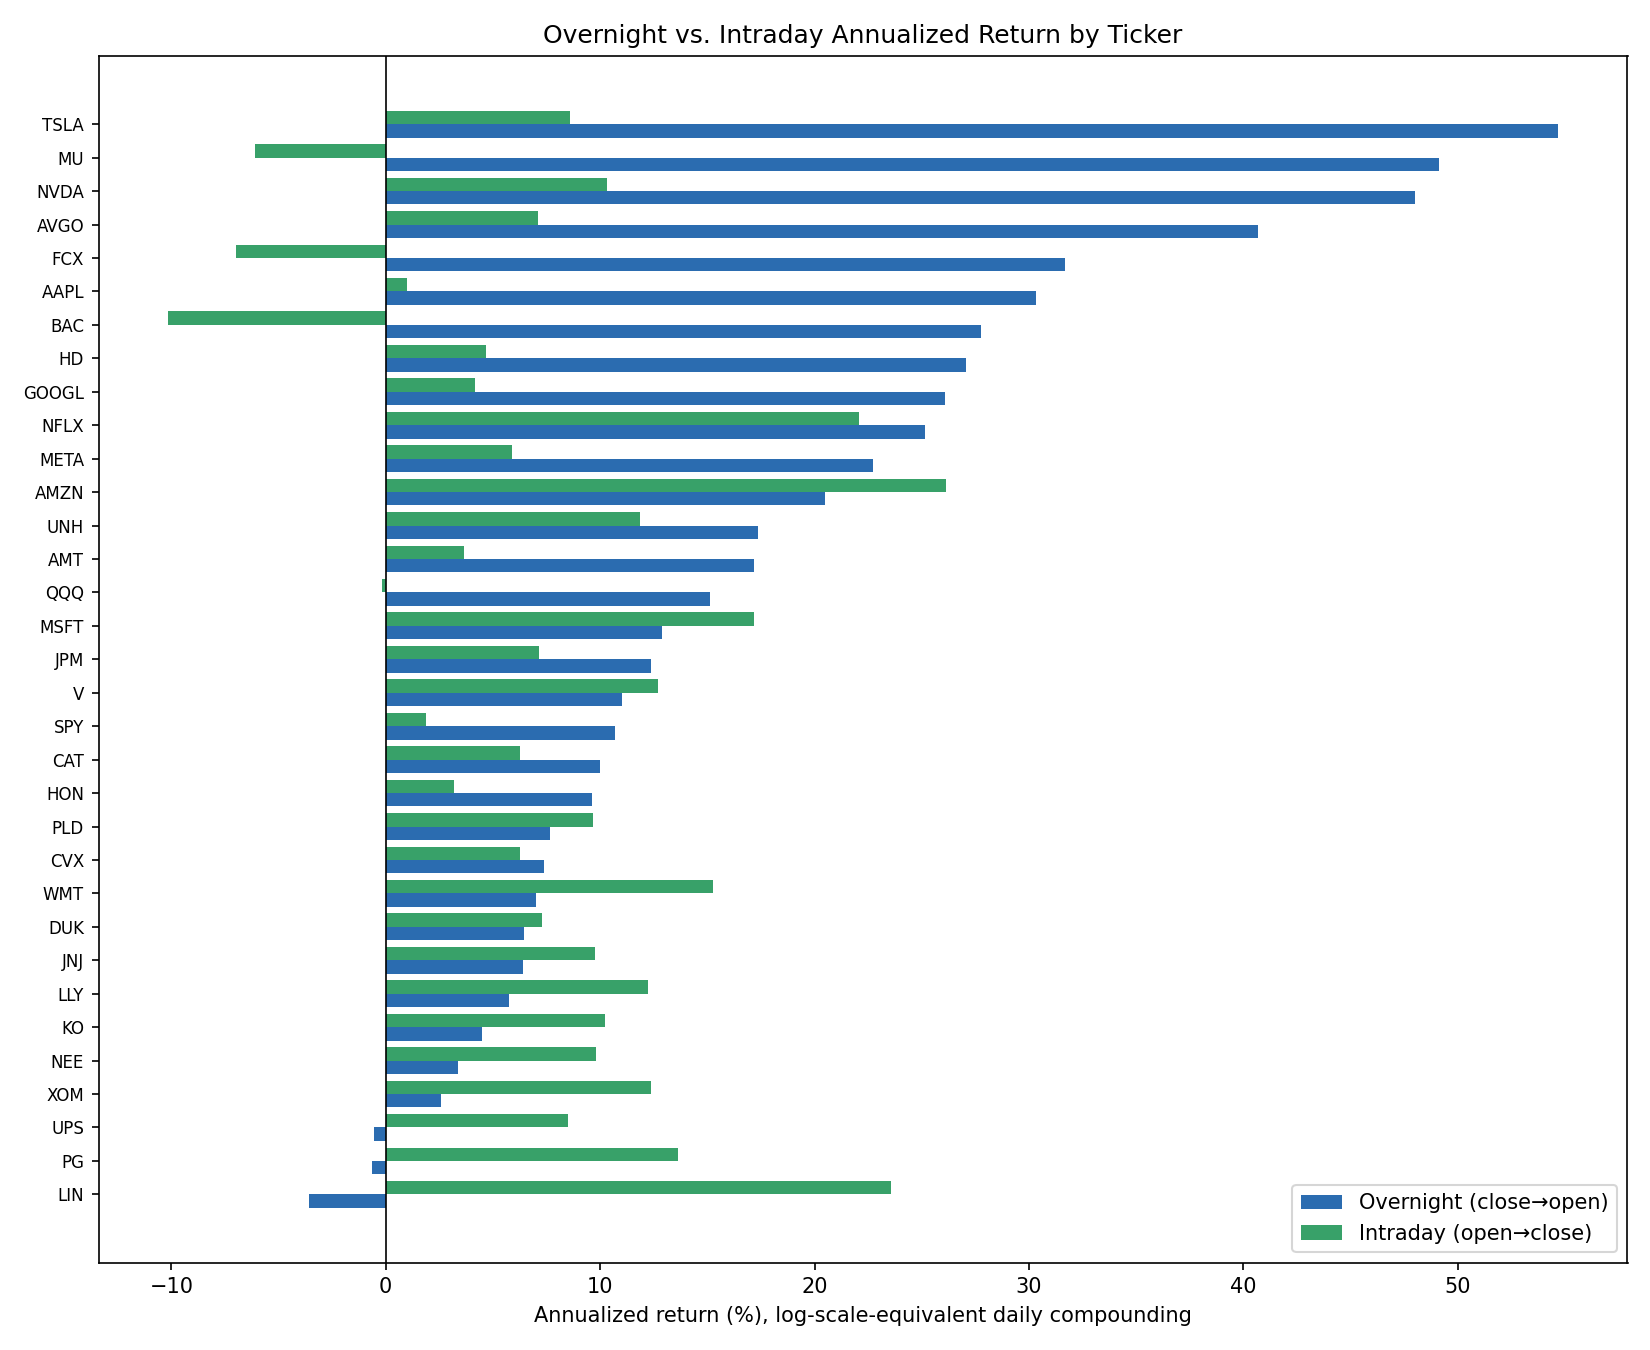
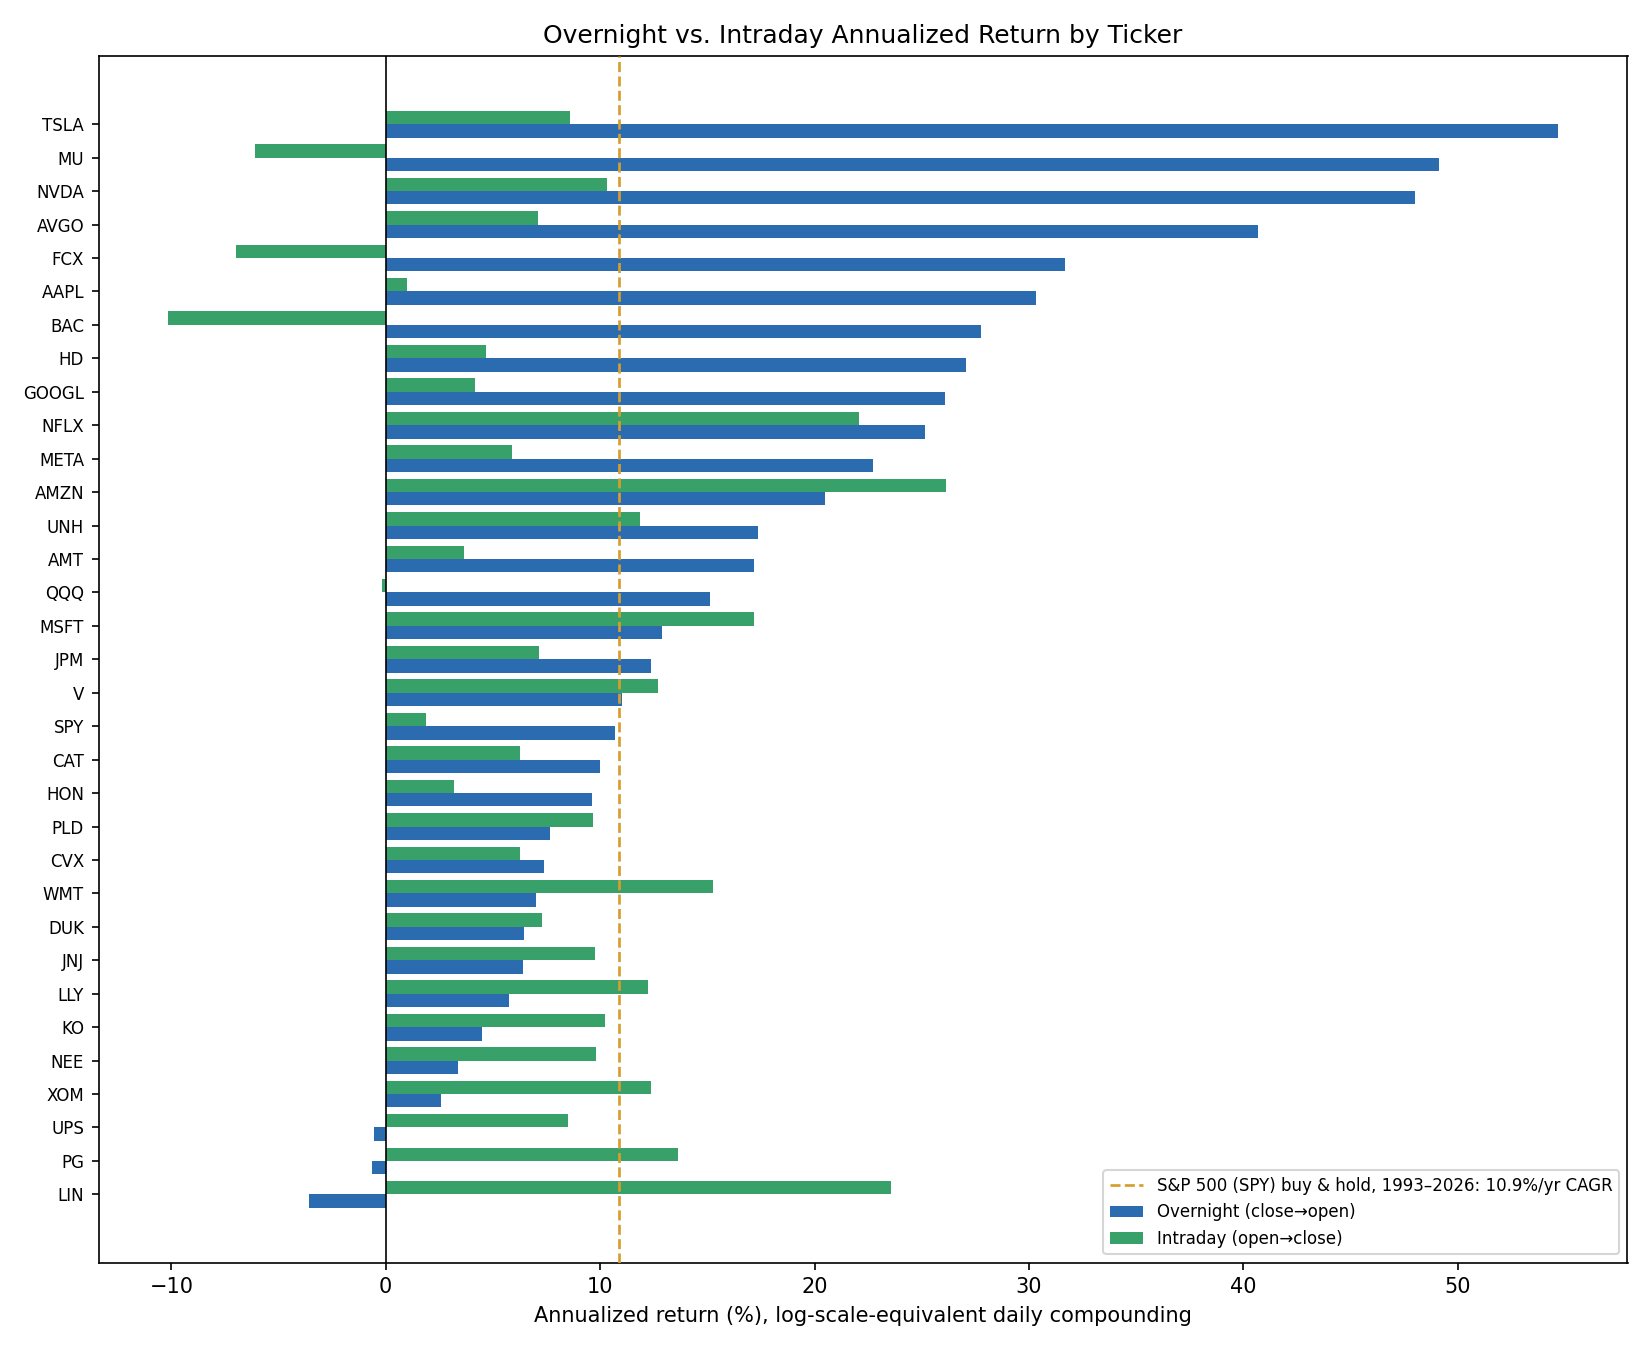
Add S&P 500 benchmark line to return charts; credit inspiration tweet
Adds a dashed reference line at SPY's own realized buy-and-hold CAGR
(10.9%/yr, 1993-2026, same sample window) to the per-ticker and
sub-period-consistency charts, computed in analyze.py and stored in
summary.json so make_charts.py doesn't hardcode it. Makes it immediately
visible which overnight/intraday bars actually clear the long-term
market benchmark rather than just comparing bars to each other.

Also credits the original tweet (@wheelieinvestor) that inspired this
whole project, reproduced as assets/inspiration_tweet.png per the same
attribution convention used in ../vix-regime-switch-backtest, linked
from README.md, report.md, and background/mu_claim_validation.md.

Claude-Session: https://claude.ai/code/session_01XzdDpZ7SEzeVB2bMQg8JKU

Changed region(s): [[0.6491, 0.8711, 0.9891, 0.9333]]

diff --git a/scripts/make_charts.py b/scripts/make_charts.py
@@ -15,6 +15,12 @@ BENCHMARK_TICKERS = {"SPY", "QQQ", "MU"}
 
 with open(REPORTS_DIR / "per_ticker_results.json") as f:
     per_ticker = json.load(f)
+with open(REPORTS_DIR / "summary.json") as f:
+    summary = json.load(f)
+
+spy_bench = summary["spy_buyhold_benchmark"]
+spy_cagr = spy_bench["cagr_pct"]
+spy_label = f"S&P 500 (SPY) buy & hold, {spy_bench['start'][:4]}–{spy_bench['end'][:4]}: {spy_cagr:.1f}%/yr CAGR"
 
 tickers = sorted(per_ticker.keys(), key=lambda t: per_ticker[t]["overnight"]["ann_return_pct"])
 overnight_ann = [per_ticker[t]["overnight"]["ann_return_pct"] for t in tickers]
@@ -28,9 +34,10 @@ ax.barh(y + 0.2, intraday_ann, height=0.4, label="Intraday (open→close)", colo
 ax.set_yticks(y)
 ax.set_yticklabels(tickers, fontsize=8)
 ax.axvline(0, color="black", linewidth=0.8)
+ax.axvline(spy_cagr, color="#d69e2e", linewidth=1.3, linestyle="--", zorder=4, label=spy_label)
 ax.set_xlabel("Annualized return (%), log-scale-equivalent daily compounding")
 ax.set_title("Overnight vs. Intraday Annualized Return by Ticker")
-ax.legend(loc="lower right")
+ax.legend(loc="lower right", fontsize=8)
 fig.tight_layout()
 fig.savefig(CHARTS_DIR / "per_ticker_overnight_vs_intraday.png", dpi=150)
 plt.close(fig)
@@ -65,9 +72,10 @@ ax.barh(y + 0.2, second_half, height=0.4, label="Second half of history", color=
 ax.set_yticks(y)
 ax.set_yticklabels(tickers, fontsize=8)
 ax.axvline(0, color="black", linewidth=0.8)
+ax.axvline(spy_cagr, color="#d69e2e", linewidth=1.3, linestyle="--", zorder=4, label=spy_label)
 ax.set_xlabel("Annualized overnight return (%)")
 ax.set_title("Overnight Edge: First Half vs. Second Half of Each Ticker's History")
-ax.legend(loc="lower right")
+ax.legend(loc="lower right", fontsize=8)
 fig.tight_layout()
 fig.savefig(CHARTS_DIR / "subperiod_consistency.png", dpi=150)
 plt.close(fig)

diff --git a/scripts/analyze.py b/scripts/analyze.py
@@ -167,6 +167,27 @@ def factor_regression(leg_dates, leg_returns, factors):
     return result
 
 
+def spy_buyhold_benchmark():
+    """Realized buy-and-hold CAGR for SPY over this project's full sample
+    window (first open to last close), used as the long-term S&P 500
+    reference line on the annualized-return charts. This is realized
+    CAGR (total_return ** (1/years) - 1), not the mean-daily-return
+    annualization used for the overnight/intraday legs elsewhere in this
+    module, so it lines up with the commonly quoted "~10%/year" long-run
+    S&P 500 figure rather than running hot the way mean-of-daily-returns
+    annualization does under volatility drag."""
+    dates, opens, closes = load_ticker("SPY")
+    years = len(dates) / TRADING_DAYS_PER_YEAR
+    total_return = closes[-1] / opens[0]
+    cagr = total_return ** (1 / years) - 1
+    return {
+        "cagr_pct": cagr * 100,
+        "start": dates[0],
+        "end": dates[-1],
+        "years": years,
+    }
+
+
 def analyze_ticker(ticker: str, factors: dict):
     dates, opens, closes = load_ticker(ticker)
     if len(dates) < 500:
@@ -275,6 +296,7 @@ def main():
         "n_tickers_total": len(per_ticker),
         "n_tickers_cross_section": len(cross_section_tickers),
         "benchmark_tickers_excluded_from_cross_section": sorted(BENCHMARK_TICKERS),
+        "spy_buyhold_benchmark": spy_buyhold_benchmark(),
         "cross_sectional_overnight_mean_bps": float(overnight_arr.mean()),
         "cross_sectional_overnight_t": float(cross_overnight_t),
         "cross_sectional_overnight_p": float(cross_overnight_p),

diff --git a/report.md b/report.md
@@ -2,7 +2,7 @@
 
 ## Why this exists
 
-This started from a viral chart claiming Micron (MU) is up **+138,330,342%** if you only held it overnight (buy at close, sell at next open) since 1990, and **-99.92%** if you only held it during the trading day (buy at open, sell at close). That specific claim [checked out](#appendix-the-original-mu-claim) against real MU price data. The question this project answers is different: **is that a Micron-specific fluke, or a real, tradable, market-wide edge?**
+This started from a [viral tweet](https://x.com/wheelieinvestor/status/2090827673136472542?s=48) ([@wheelieinvestor](https://x.com/wheelieinvestor), reproduced in [`assets/inspiration_tweet.png`](assets/inspiration_tweet.png) for commentary/attribution) claiming Micron (MU) is up **+138,330,342%** if you only held it overnight (buy at close, sell at next open) since 1990, and **-99.92%** if you only held it during the trading day (buy at open, sell at close). That specific claim [checked out](#appendix-the-original-mu-claim) against real MU price data. The question this project answers is different: **is that a Micron-specific fluke, or a real, tradable, market-wide edge?**
 
 > **Methodology v2.** This report was rebuilt after an independent institutional-style review flagged two material issues in the first pass: (1) unadjusted price data was letting ex-dividend gaps leak into the overnight leg, artificially inflating the apparent effect in high-yield sectors, and (2) the "real edge" framing hadn't been tested against known risk factors, so it could have just been repackaged momentum exposure. Both are fixed below; see the [methodology](#1-method) and [§4](#4-is-this-just-repackaged-momentum). The core numbers changed modestly; the qualitative conclusions did not.
 
@@ -29,6 +29,8 @@ Full numeric output: [`reports/summary.json`](reports/summary.json) (cross-secti
 ## 2. Headline result: the pattern is real, but it is not the MU pattern
 
 ![Per-ticker overnight vs intraday annualized return](charts/per_ticker_overnight_vs_intraday.png)
+
+The dashed gold line marks SPY's own realized buy-and-hold CAGR over this project's full sample window (1993-2026: 10.9%/yr), the standard "long-term S&P 500 average return" benchmark. Any bar that clears it is beating the market on that leg alone: most of the overnight bars do, most of the intraday bars don't, which is the clearest single visual of where the "alpha" in this whole topic actually comes from.
 
 | | Overnight leg | Intraday leg |
 |---|---:|---:|

diff --git a/README.md b/README.md
@@ -4,7 +4,13 @@ A test of whether Micron's viral "buy the close, sell the open" chart is a marke
 
 ## Why this exists
 
-A chart claimed MU is up **+138,330,342%** since 1990 if you only held it overnight (close→open), and **-99.92%** if you only held it during the trading day (open→close). That claim [checks out](report.md#appendix-the-original-mu-claim) against real data. This project asks the harder question: **does that generalize into a real, tradable edge, or is MU an outlier?**
+This started from a viral tweet claiming MU is up **+138,330,342%** since 1990 if you only held it overnight (close→open), and **-99.92%** if you only held it during the trading day (open→close).
+
+<img src="assets/inspiration_tweet.png" alt="Tweet: Micron Technology (MU) overnight returns +138,330,342% vs intraday returns -99.92%, chart since 1990" width="500">
+
+Source: [@wheelieinvestor on X](https://x.com/wheelieinvestor/status/2090827673136472542?s=48). Reproduced here for commentary/attribution purposes as the inspiration for this analysis; all rights to the original post belong to its author.
+
+That claim [checks out](report.md#appendix-the-original-mu-claim) against real data. This project asks the harder question: **does that generalize into a real, tradable edge, or is MU an outlier?**
 
 **→ [Read the full report](report.md)**
 

diff --git a/background/mu_claim_validation.md b/background/mu_claim_validation.md
@@ -4,10 +4,12 @@ This is the research trail that led to this repo, preserved for reference.
 
 ## The claim
 
-A chart (screenshot, source unknown) titled "Micron Technology (MU)" plotted two log-scale equity curves from 1990 to 2026:
+A chart titled "Micron Technology (MU)" plotted two log-scale equity curves from 1990 to 2026:
 
 - **Overnight returns** (buy at close, sell at next open): **+138,330,342%**
 - **Intraday returns** (buy at open, sell at close): **-99.92%**
+
+Source: [@wheelieinvestor on X](https://x.com/wheelieinvestor/status/2090827673136472542?s=48); see [`../assets/inspiration_tweet.png`](../assets/inspiration_tweet.png) for the original post, reproduced for commentary/attribution purposes.
 
 ## Step 1: sanity-check against 1-year cached data
 
